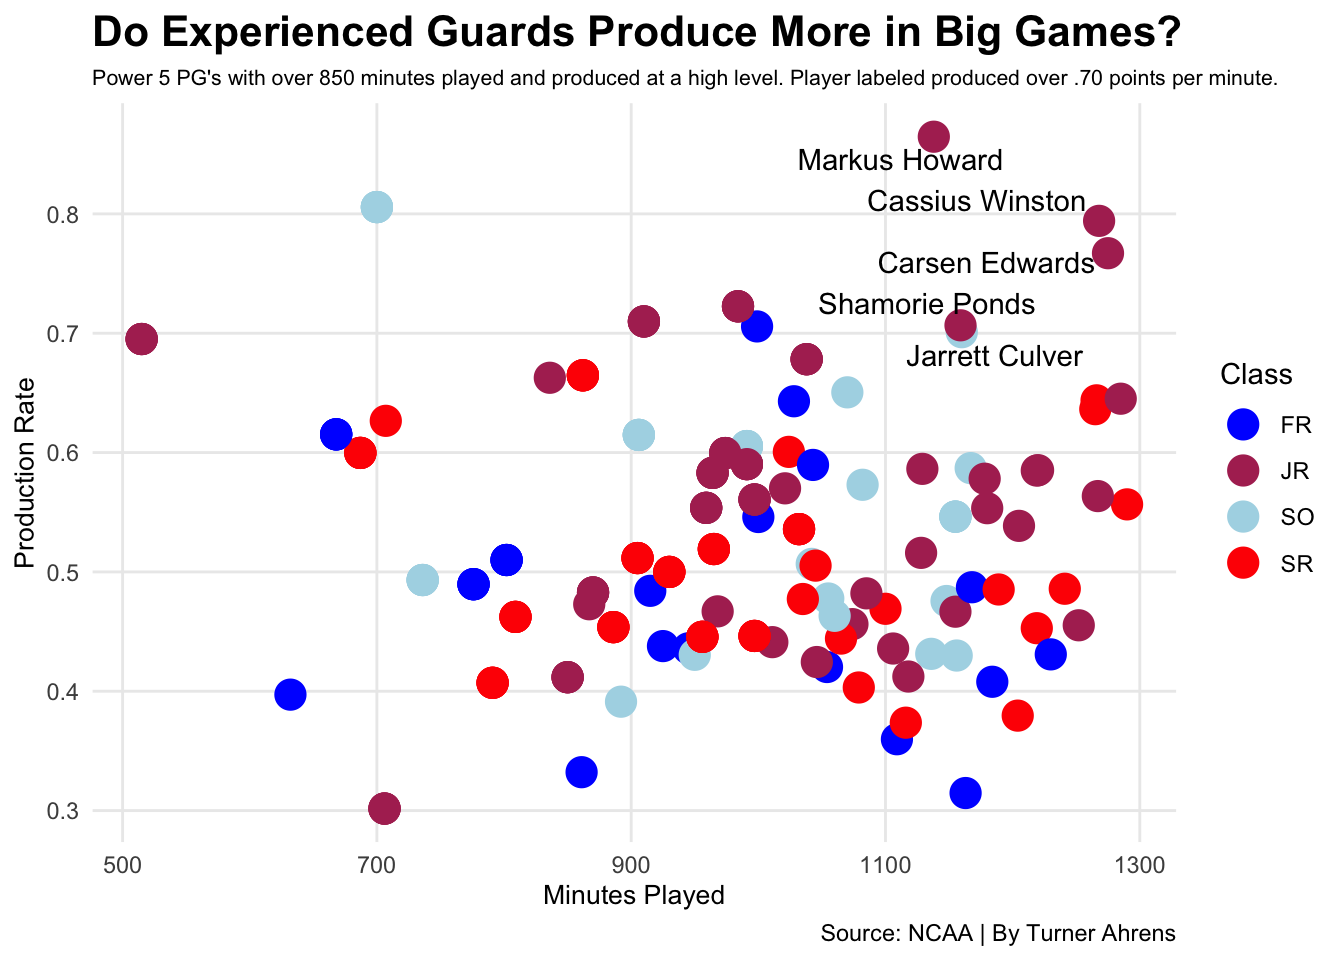
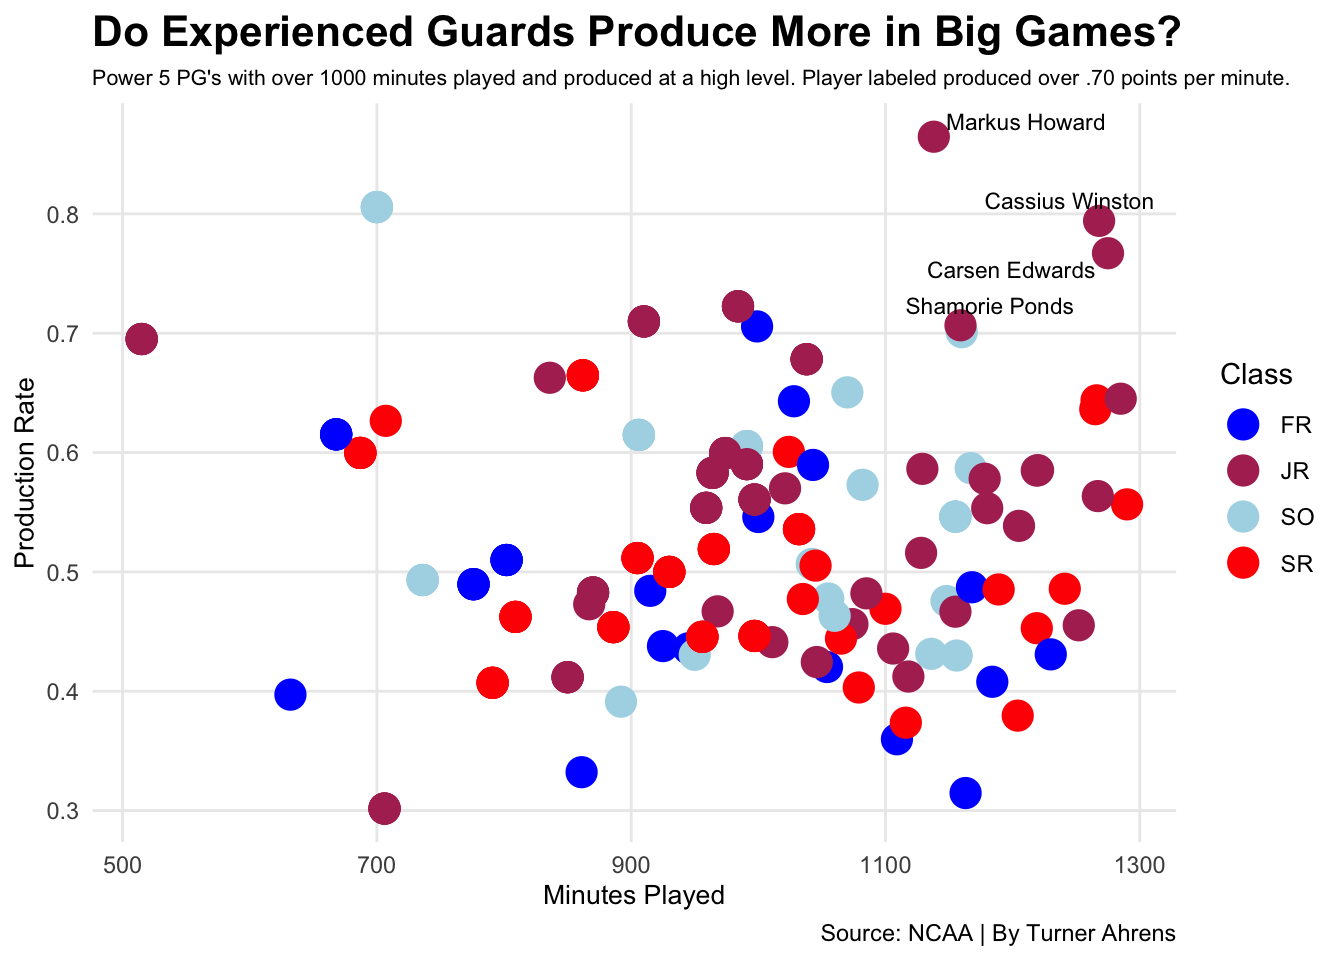
New

Changed region(s): [[0.2188, 0.0625, 0.9688, 0.0938], [0.5938, 0.25, 0.8125, 0.4062], [0.5938, 0.125, 0.8438, 0.2188]]

diff --git a/posts/point-guards-and-march-madness/index.html b/posts/point-guards-and-march-madness/index.html
@@ -359,18 +359,18 @@ pre > code.sourceCode > span > a:first-child::before { text-decoration: underlin
 <span id="cb2-8"><a href="#cb2-8" aria-hidden="true" tabindex="-1"></a></span>
 <span id="cb2-9"><a href="#cb2-9" aria-hidden="true" tabindex="-1"></a>best <span class="ot">&lt;-</span> player_production <span class="sc">|&gt;</span></span>
 <span id="cb2-10"><a href="#cb2-10" aria-hidden="true" tabindex="-1"></a>  <span class="fu">filter</span>( Production <span class="sc">&gt;</span> .<span class="dv">70</span>) <span class="sc">|&gt;</span></span>
-<span id="cb2-11"><a href="#cb2-11" aria-hidden="true" tabindex="-1"></a>  <span class="fu">filter</span>(Class <span class="sc">==</span> <span class="st">"JR"</span> <span class="sc">|</span> Class <span class="sc">==</span> <span class="st">"SR"</span><span class="sc">|</span> Class <span class="sc">==</span> <span class="st">"FR"</span><span class="sc">|</span> Class <span class="sc">==</span> <span class="st">"SO"</span>)<span class="sc">|&gt;</span> </span>
-<span id="cb2-12"><a href="#cb2-12" aria-hidden="true" tabindex="-1"></a> <span class="fu">filter</span> (MP <span class="sc">&gt;</span> <span class="dv">850</span>)</span>
+<span id="cb2-11"><a href="#cb2-11" aria-hidden="true" tabindex="-1"></a>  <span class="fu">filter</span>(Class <span class="sc">==</span> <span class="st">"JR"</span> <span class="sc">|</span> Class <span class="sc">==</span> <span class="st">"SR"</span>)<span class="sc">|&gt;</span> </span>
+<span id="cb2-12"><a href="#cb2-12" aria-hidden="true" tabindex="-1"></a> <span class="fu">filter</span> (MP <span class="sc">&gt;</span> <span class="dv">1000</span>)</span>
 <span id="cb2-13"><a href="#cb2-13" aria-hidden="true" tabindex="-1"></a></span>
 <span id="cb2-14"><a href="#cb2-14" aria-hidden="true" tabindex="-1"></a></span>
 <span id="cb2-15"><a href="#cb2-15" aria-hidden="true" tabindex="-1"></a></span>
 <span id="cb2-16"><a href="#cb2-16" aria-hidden="true" tabindex="-1"></a><span class="fu">ggplot</span>() <span class="sc">+</span></span>
 <span id="cb2-17"><a href="#cb2-17" aria-hidden="true" tabindex="-1"></a>  <span class="fu">geom_point</span>(<span class="at">data=</span>player_production, <span class="fu">aes</span>(<span class="at">x =</span> MP, <span class="at">y =</span> Production, <span class="at">color =</span> Class), <span class="at">size =</span> <span class="dv">5</span>) <span class="sc">+</span></span>
-<span id="cb2-18"><a href="#cb2-18" aria-hidden="true" tabindex="-1"></a>   <span class="fu">geom_text_repel</span>(<span class="at">data =</span> best, <span class="fu">aes</span>(<span class="at">x =</span> MP, <span class="at">y =</span> Production, <span class="at">label =</span> Player))<span class="sc">+</span></span>
+<span id="cb2-18"><a href="#cb2-18" aria-hidden="true" tabindex="-1"></a>   <span class="fu">geom_text_repel</span>(<span class="at">data =</span> best, <span class="fu">aes</span>(<span class="at">x =</span> MP, <span class="at">y =</span> Production, <span class="at">label =</span> Player), <span class="at">size =</span> <span class="dv">3</span>)<span class="sc">+</span></span>
 <span id="cb2-19"><a href="#cb2-19" aria-hidden="true" tabindex="-1"></a>  <span class="fu">scale_color_manual</span>(<span class="at">values=</span><span class="fu">c</span>(<span class="st">"blue"</span>, <span class="st">"maroon"</span>,<span class="st">"lightblue"</span>, <span class="st">"red"</span> )) <span class="sc">+</span> </span>
 <span id="cb2-20"><a href="#cb2-20" aria-hidden="true" tabindex="-1"></a>  <span class="fu">labs</span>(</span>
 <span id="cb2-21"><a href="#cb2-21" aria-hidden="true" tabindex="-1"></a>    <span class="at">title =</span> <span class="st">"Do Experienced Guards Produce More in Big Games?"</span>,</span>
-<span id="cb2-22"><a href="#cb2-22" aria-hidden="true" tabindex="-1"></a>    <span class="at">subtitle =</span> <span class="st">"Power 5 PG's with over 850 minutes played and produced at a high level. Player labeled produced over .70 points per minute.  "</span>,</span>
+<span id="cb2-22"><a href="#cb2-22" aria-hidden="true" tabindex="-1"></a>    <span class="at">subtitle =</span> <span class="st">"Power 5 PG's with over 1000 minutes played and produced at a high level. Player labeled produced over .70 points per minute.  "</span>,</span>
 <span id="cb2-23"><a href="#cb2-23" aria-hidden="true" tabindex="-1"></a>    <span class="at">x =</span> <span class="st">"Minutes Played"</span>,</span>
 <span id="cb2-24"><a href="#cb2-24" aria-hidden="true" tabindex="-1"></a>    <span class="at">y =</span> <span class="st">"Production Rate"</span>,</span>
 <span id="cb2-25"><a href="#cb2-25" aria-hidden="true" tabindex="-1"></a>    <span class="at">caption =</span> <span class="st">"Source: NCAA | By Turner Ahrens"</span></span>
@@ -409,23 +409,24 @@ pre > code.sourceCode > span > a:first-child::before { text-decoration: underlin
 <span id="cb3-12"><a href="#cb3-12" aria-hidden="true" tabindex="-1"></a>old_pg <span class="ot">&lt;-</span> TurnRatio <span class="sc">|&gt;</span> </span>
 <span id="cb3-13"><a href="#cb3-13" aria-hidden="true" tabindex="-1"></a>  <span class="fu">filter</span>(Class <span class="sc">==</span> <span class="st">"JR"</span> <span class="sc">|</span> Class <span class="sc">==</span> <span class="st">"SR"</span>)</span>
 <span id="cb3-14"><a href="#cb3-14" aria-hidden="true" tabindex="-1"></a></span>
-<span id="cb3-15"><a href="#cb3-15" aria-hidden="true" tabindex="-1"></a><span class="fu">ggplot</span>() <span class="sc">+</span></span>
-<span id="cb3-16"><a href="#cb3-16" aria-hidden="true" tabindex="-1"></a><span class="fu">geom_boxplot</span>(<span class="at">data =</span> young_pg, <span class="fu">aes</span>(<span class="at">x =</span> <span class="st">"Younger PG's"</span>, <span class="at">y =</span> TurnRatio), <span class="at">fill =</span> <span class="st">"lightblue"</span>) <span class="sc">+</span></span>
-<span id="cb3-17"><a href="#cb3-17" aria-hidden="true" tabindex="-1"></a>  <span class="fu">geom_boxplot</span>(<span class="at">data =</span> old_pg, <span class="fu">aes</span>(<span class="at">x =</span> <span class="st">"Older PG's"</span>, <span class="at">y =</span> TurnRatio), <span class="at">fill =</span> <span class="st">"red"</span>)  <span class="sc">+</span></span>
-<span id="cb3-18"><a href="#cb3-18" aria-hidden="true" tabindex="-1"></a>  <span class="fu">labs</span>(</span>
-<span id="cb3-19"><a href="#cb3-19" aria-hidden="true" tabindex="-1"></a>    <span class="at">title =</span> <span class="st">"Experienced point guards protect the ball better in big games."</span>,</span>
-<span id="cb3-20"><a href="#cb3-20" aria-hidden="true" tabindex="-1"></a>    <span class="at">subtitle =</span> <span class="st">"Assist-to-Turnover ratio among Power 5 guards"</span>,</span>
-<span id="cb3-21"><a href="#cb3-21" aria-hidden="true" tabindex="-1"></a>    <span class="at">x =</span> <span class="st">""</span>,</span>
-<span id="cb3-22"><a href="#cb3-22" aria-hidden="true" tabindex="-1"></a>    <span class="at">y =</span> <span class="st">"Assist-to-Turnover Ratio"</span>,</span>
-<span id="cb3-23"><a href="#cb3-23" aria-hidden="true" tabindex="-1"></a>    <span class="at">caption =</span> <span class="st">"Source: NCAA | By Turner Ahrens"</span></span>
-<span id="cb3-24"><a href="#cb3-24" aria-hidden="true" tabindex="-1"></a>  ) <span class="sc">+</span></span>
-<span id="cb3-25"><a href="#cb3-25" aria-hidden="true" tabindex="-1"></a>  <span class="fu">theme_minimal</span>() <span class="sc">+</span></span>
-<span id="cb3-26"><a href="#cb3-26" aria-hidden="true" tabindex="-1"></a>  <span class="fu">theme</span>(</span>
-<span id="cb3-27"><a href="#cb3-27" aria-hidden="true" tabindex="-1"></a>    <span class="at">plot.title =</span> <span class="fu">element_text</span>(<span class="at">size =</span> <span class="dv">16</span>, <span class="at">face =</span> <span class="st">"bold"</span>),</span>
-<span id="cb3-28"><a href="#cb3-28" aria-hidden="true" tabindex="-1"></a>    <span class="at">axis.title =</span> <span class="fu">element_text</span>(<span class="at">size =</span> <span class="dv">8</span>), </span>
-<span id="cb3-29"><a href="#cb3-29" aria-hidden="true" tabindex="-1"></a>    <span class="at">plot.subtitle =</span> <span class="fu">element_text</span>(<span class="at">size =</span> <span class="dv">10</span>), </span>
-<span id="cb3-30"><a href="#cb3-30" aria-hidden="true" tabindex="-1"></a>    <span class="at">panel.grid.minor =</span> <span class="fu">element_blank</span>()</span>
-<span id="cb3-31"><a href="#cb3-31" aria-hidden="true" tabindex="-1"></a>  )</span></code></pre></div><button title="Copy to Clipboard" class="code-copy-button"><i class="bi"></i></button></div>
+<span id="cb3-15"><a href="#cb3-15" aria-hidden="true" tabindex="-1"></a></span>
+<span id="cb3-16"><a href="#cb3-16" aria-hidden="true" tabindex="-1"></a><span class="fu">ggplot</span>() <span class="sc">+</span></span>
+<span id="cb3-17"><a href="#cb3-17" aria-hidden="true" tabindex="-1"></a><span class="fu">geom_boxplot</span>(<span class="at">data =</span> young_pg, <span class="fu">aes</span>(<span class="at">x =</span> <span class="st">"Younger PG's"</span>, <span class="at">y =</span> TurnRatio), <span class="at">fill =</span> <span class="st">"lightblue"</span>) <span class="sc">+</span></span>
+<span id="cb3-18"><a href="#cb3-18" aria-hidden="true" tabindex="-1"></a>  <span class="fu">geom_boxplot</span>(<span class="at">data =</span> old_pg, <span class="fu">aes</span>(<span class="at">x =</span> <span class="st">"Older PG's"</span>, <span class="at">y =</span> TurnRatio), <span class="at">fill =</span> <span class="st">"red"</span>)  <span class="sc">+</span></span>
+<span id="cb3-19"><a href="#cb3-19" aria-hidden="true" tabindex="-1"></a>  <span class="fu">labs</span>(</span>
+<span id="cb3-20"><a href="#cb3-20" aria-hidden="true" tabindex="-1"></a>    <span class="at">title =</span> <span class="st">"Experienced point guards protect the ball better in big games."</span>,</span>
+<span id="cb3-21"><a href="#cb3-21" aria-hidden="true" tabindex="-1"></a>    <span class="at">subtitle =</span> <span class="st">"Assist-to-Turnover ratio among Power 5 guards"</span>,</span>
+<span id="cb3-22"><a href="#cb3-22" aria-hidden="true" tabindex="-1"></a>    <span class="at">x =</span> <span class="st">""</span>,</span>
+<span id="cb3-23"><a href="#cb3-23" aria-hidden="true" tabindex="-1"></a>    <span class="at">y =</span> <span class="st">"Assist-to-Turnover Ratio"</span>,</span>
+<span id="cb3-24"><a href="#cb3-24" aria-hidden="true" tabindex="-1"></a>    <span class="at">caption =</span> <span class="st">"Source: NCAA | By Turner Ahrens"</span></span>
+<span id="cb3-25"><a href="#cb3-25" aria-hidden="true" tabindex="-1"></a>  ) <span class="sc">+</span></span>
+<span id="cb3-26"><a href="#cb3-26" aria-hidden="true" tabindex="-1"></a>  <span class="fu">theme_minimal</span>() <span class="sc">+</span></span>
+<span id="cb3-27"><a href="#cb3-27" aria-hidden="true" tabindex="-1"></a>  <span class="fu">theme</span>(</span>
+<span id="cb3-28"><a href="#cb3-28" aria-hidden="true" tabindex="-1"></a>    <span class="at">plot.title =</span> <span class="fu">element_text</span>(<span class="at">size =</span> <span class="dv">16</span>, <span class="at">face =</span> <span class="st">"bold"</span>),</span>
+<span id="cb3-29"><a href="#cb3-29" aria-hidden="true" tabindex="-1"></a>    <span class="at">axis.title =</span> <span class="fu">element_text</span>(<span class="at">size =</span> <span class="dv">8</span>), </span>
+<span id="cb3-30"><a href="#cb3-30" aria-hidden="true" tabindex="-1"></a>    <span class="at">plot.subtitle =</span> <span class="fu">element_text</span>(<span class="at">size =</span> <span class="dv">10</span>), </span>
+<span id="cb3-31"><a href="#cb3-31" aria-hidden="true" tabindex="-1"></a>    <span class="at">panel.grid.minor =</span> <span class="fu">element_blank</span>()</span>
+<span id="cb3-32"><a href="#cb3-32" aria-hidden="true" tabindex="-1"></a>  )</span></code></pre></div><button title="Copy to Clipboard" class="code-copy-button"><i class="bi"></i></button></div>
 </details>
 <div class="cell-output-display">
 <div>

diff --git a/index.html b/index.html
@@ -209,7 +209,7 @@ window.Quarto = {
 
 <div class="quarto-listing quarto-listing-container-default" id="listing-listing">
 <div class="list quarto-listing-default">
[2 lines of base64/hex data omitted]
 <div class="thumbnail"><a href="./posts/point-guards-and-march-madness/index.html" class="no-external">
 
 <img loading="lazy" src="./posts/point-guards-and-march-madness/image1.jpg" class="thumbnail-image">
